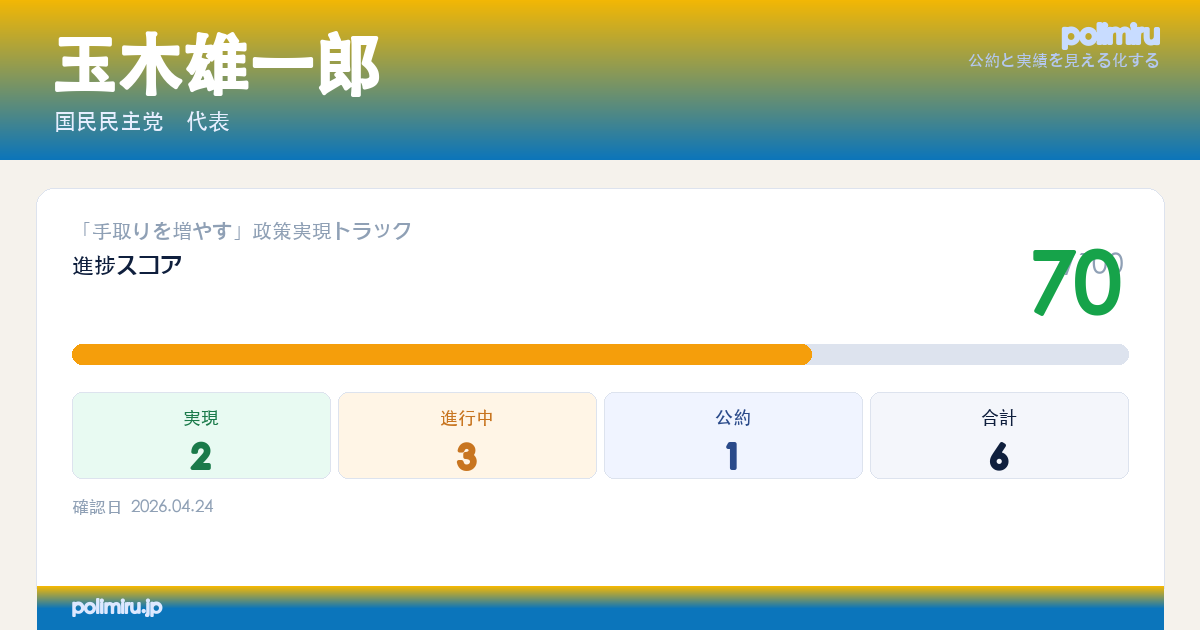
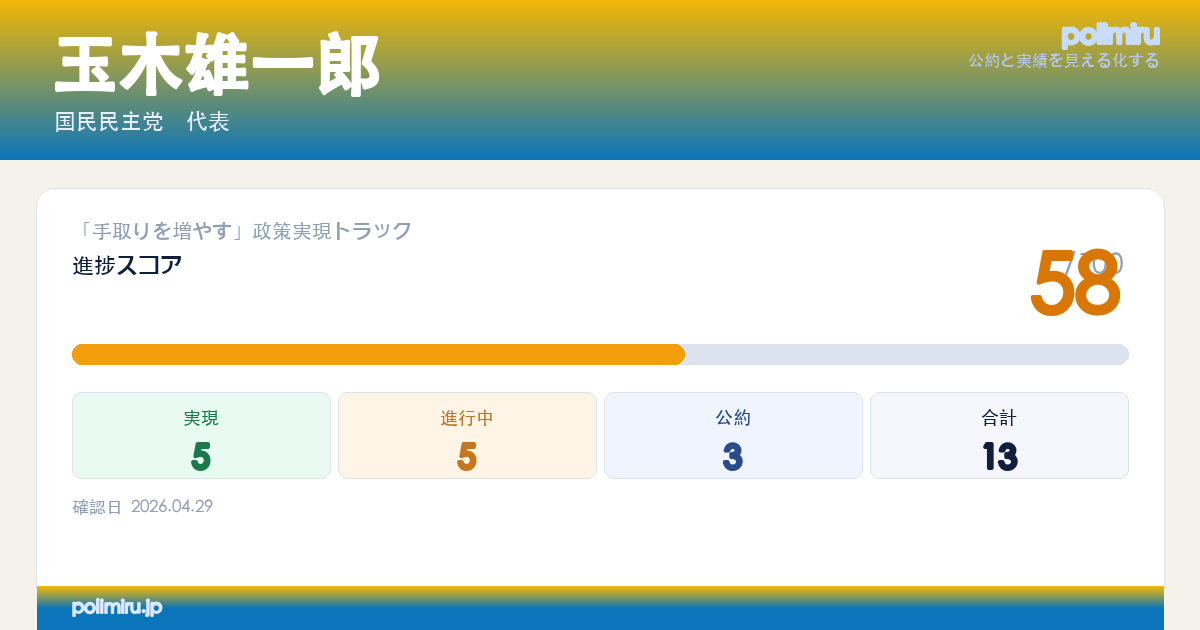
玉木雄一郎ファクトチェック更新・岸田文雄OGP再生成
- tamaki-yuichiro: highlights を 10 → 18 項目に拡充し evidence_source を全項目に付与
  - 実現: ガソリン暫定税率廃止（2025/12/31）・軽油引取税廃止（2026/4/1）
          年収の壁178万円合意（2025/12/18）・大学生特定親族特別控除（150万円）
          高校生扶養控除縮小阻止
  - 進行中: 年少扶養控除復活・住民税控除・社会保険料軽減・再エネ賦課金停止法案
  - 公約: 消費税5%・教育国債5兆円・インボイス廃止
  - スコア: 70 → 58（項目粒度を上げ 撤廃済項目を除外）
- kishida-fumio: OGP 画像・SEO メタタグを最新スコアで再生成

diff --git a/index.html b/index.html
@@ -3,12 +3,17 @@
 <head>
     <meta charset="UTF-8">
     <meta name="viewport" content="width=device-width, initial-scale=1.0">
-    <title>Polimiru｜政治家の発言と実績を見える化する</title>
-    <meta name="description" content="Polimiruは、政治家の公約・発言・実績を整理し、理性的な投票判断の材料を提供するプラットフォームです。">
+    <title>Polimiru｜政治家の公約・発言・実績を見える化</title>
+    <meta name="description" content="Polimiruは、政治家の公約・発言・実績を出典に基づいて整理する政治情報サイトです。名前・政党・選挙区から、投票判断に必要な情報を確認できます。">
     <link rel="canonical" href="https://polimiru.jp/">
+    <meta name="application-name" content="Polimiru">
+    <meta name="theme-color" content="#0f1f3d">
+    <link rel="icon" href="https://polimiru.jp/images/favicon-48.png" sizes="48x48" type="image/png">
+    <link rel="icon" href="https://polimiru.jp/images/icon-192.png" sizes="192x192" type="image/png">
+    <link rel="apple-touch-icon" href="https://polimiru.jp/images/apple-touch-icon.png">
     <meta property="og:type" content="website">
-    <meta property="og:title" content="Polimiru｜政治家の発言と実績を見える化する">
-    <meta property="og:description" content="Polimiruは、政治家の公約・発言・実績を整理し、理性的な投票判断の材料を提供するプラットフォームです。">
+    <meta property="og:title" content="Polimiru｜政治家の公約・発言・実績を見える化">
+    <meta property="og:description" content="政治家の公約・発言・実績を出典に基づいて整理。名前・政党・選挙区から、投票判断に必要な情報を確認できます。">
     <meta property="og:url" content="https://polimiru.jp/">
     <meta property="og:image" content="https://polimiru.jp/images/polimiru_ogp.png">
     <meta property="og:image:secure_url" content="https://polimiru.jp/images/polimiru_ogp.png">
@@ -18,9 +23,19 @@
     <meta property="og:site_name" content="Polimiru">
     <meta property="og:locale" content="ja_JP">
     <meta name="twitter:card" content="summary_large_image">
-    <meta name="twitter:title" content="Polimiru｜政治家の発言と実績を見える化する">
-    <meta name="twitter:description" content="Polimiruは、政治家の公約・発言・実績を整理し、理性的な投票判断の材料を提供するプラットフォームです。">
+    <meta name="twitter:title" content="Polimiru｜政治家の公約・発言・実績を見える化">
+    <meta name="twitter:description" content="政治家の公約・発言・実績を出典に基づいて整理。名前・政党・選挙区から、投票判断に必要な情報を確認できます。">
     <meta name="twitter:image" content="https://polimiru.jp/images/polimiru_ogp.png">
+    <script type="application/ld+json">
+    {
+      "@context": "https://schema.org",
+      "@type": "WebSite",
+      "name": "Polimiru",
+      "url": "https://polimiru.jp/",
+      "description": "政治家の公約・発言・実績を出典に基づいて整理する政治情報サイトです。",
+      "inLanguage": "ja"
+    }
+    </script>
     <link rel="stylesheet" href="https://cdnjs.cloudflare.com/ajax/libs/font-awesome/6.4.2/css/all.min.css">
     <link rel="stylesheet" href="css/base.css">
     <link rel="stylesheet" href="css/header-footer.css">

diff --git a/politicians/kishida-fumio/index.html b/politicians/kishida-fumio/index.html
@@ -4,11 +4,11 @@
     <meta charset="UTF-8">
     <meta name="viewport" content="width=device-width, initial-scale=1.0">
     <title>岸田文雄の公約・実績まとめ｜約束は守られたか - Polimiru</title>
-    <meta name="description" content="岸田文雄（自民党・広島1区）の公約・発言・実績を検証。外務大臣を5年間務めた後、2021年に第100・101代内閣総理大臣に就任。">
+    <meta name="description" content="岸田文雄（自民党・広島1区（11選））の公約・発言・実績を検証。広島1区で11期当選。外務大臣を5年間務めた後、2021年に第100・101代内...">
     <link rel="canonical" href="https://polimiru.jp/politicians/kishida-fumio/">
     <meta property="og:type" content="profile">
     <meta property="og:title" content="岸田文雄の公約・実績まとめ - Polimiru">
-    <meta property="og:description" content="岸田文雄（自民党・広島1区）の公約・発言・実績を検証。外務大臣を5年間務めた後、2021年に第100・101代内閣総理大臣に就任。">
+    <meta property="og:description" content="岸田文雄（自民党・広島1区（11選））の公約・発言・実績を検証。広島1区で11期当選。外務大臣を5年間務めた後、2021年に第100・101代内...">
     <meta property="og:url" content="https://polimiru.jp/politicians/kishida-fumio/">
     <meta property="og:image" content="https://polimiru.jp/images/ogp/kishida-fumio.png">
     <meta property="og:image:width" content="1200">
@@ -17,15 +17,15 @@
     <meta property="og:locale" content="ja_JP">
     <meta name="twitter:card" content="summary_large_image">
     <meta name="twitter:title" content="岸田文雄の公約・実績まとめ - Polimiru">
-    <meta name="twitter:description" content="岸田文雄（自民党・広島1区）の公約・発言・実績を検証。外務大臣を5年間務めた後、2021年に第100・101代内閣総理大臣に就任。">
+    <meta name="twitter:description" content="岸田文雄（自民党・広島1区（11選））の公約・発言・実績を検証。広島1区で11期当選。外務大臣を5年間務めた後、2021年に第100・101代内...">
     <meta name="twitter:image" content="https://polimiru.jp/images/ogp/kishida-fumio.png">
     <script type="application/ld+json">
     {
       "@context": "https://schema.org",
       "@type": "Person",
       "name": "岸田文雄",
-      "jobTitle": "衆議院議員・元内閣総理大臣",
-      "memberOf": { "@type": "Organization", "name": "自由民主党" },
+      "jobTitle": "元・第100・101代 内閣総理大臣",
+      "memberOf": { "@type": "Organization", "name": "自民党" },
       "url": "https://polimiru.jp/politicians/kishida-fumio/"
     }
     </script>
